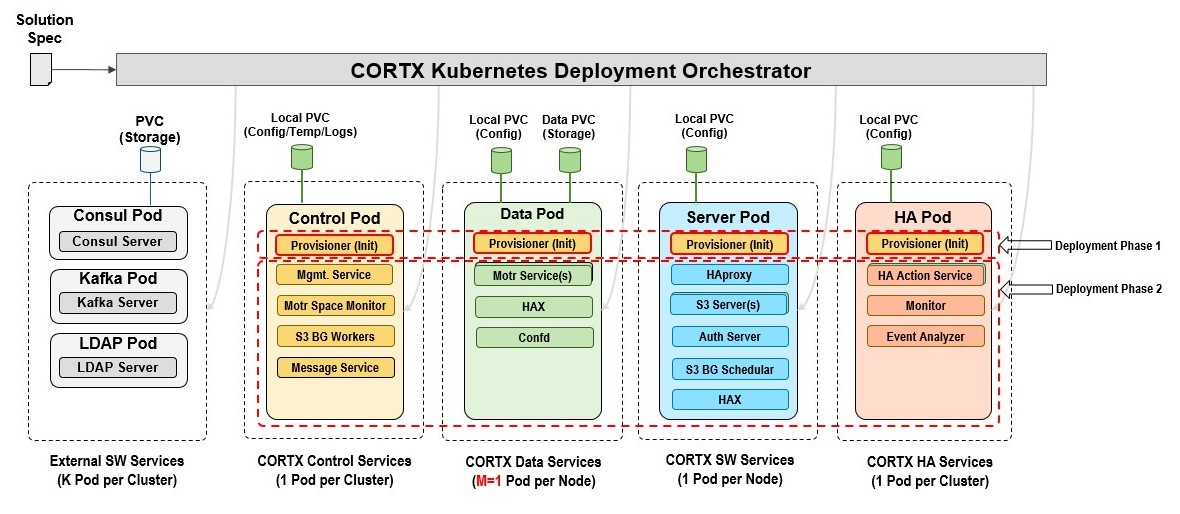
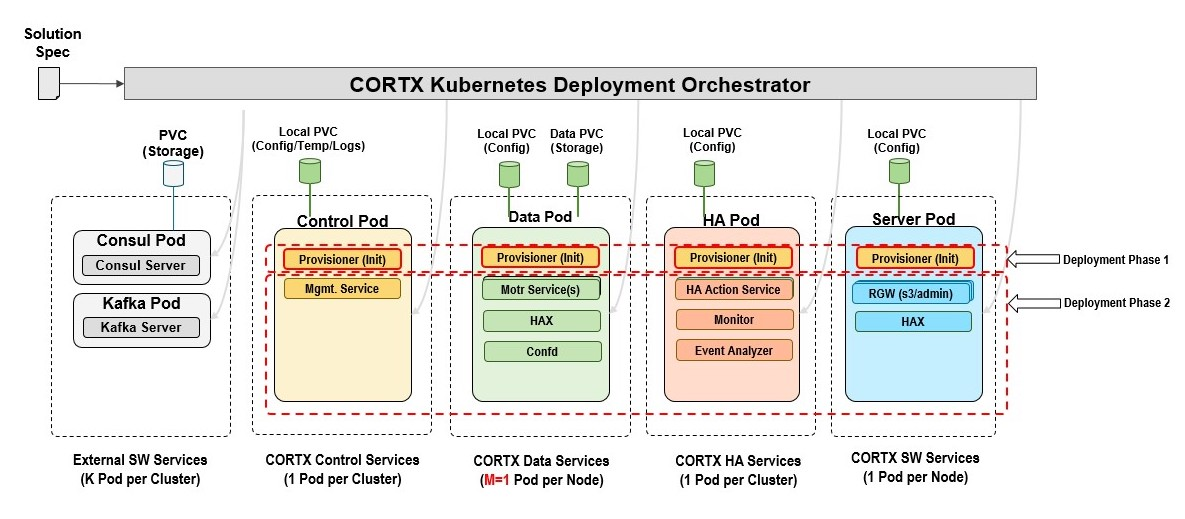
CORTX-29121 - Initial README updates for RGW

diff --git a/README.md b/README.md
@@ -208,7 +208,7 @@ This section contains the CORTX and third-party authentication information used 
 | Name                     | Description                                                                             | Value           |
 | ------------------------ | --------------------------------------------------------------------------------------- | --------------- |
 | `secrets.name`           | Name for the Kubernetes secret CORTX uses to store solution-specific secrets.           | `cortx-secret`            |
-| `secrets.content.openldap_admin_secret`          | Administrator password for the OpenLDAP required service        | `seagate1` |
+| `secrets.content.openldap_admin_secret`          | Administrator password for the OpenLDAP required service (deprecated) | `seagate1` |
 | `secrets.content.kafka_admin_secret`          | Administrator password for the Kafka required service        | `Seagate@123` |
 | `secrets.content.consul_admin_secret`          | Administrator password for the Consul required service        | `Seagate@123` |
 | `secrets.content.common_admin_secret`          | Administrator password for the CORTX common services        | `Seagate@123` |
@@ -222,20 +222,17 @@ This section contains the CORTX and third-party images used to deploy CORTX on K
 
 | Name                     | Description                                                                             | Value           |
 | ------------------------ | --------------------------------------------------------------------------------------- | --------------- |
-| `images.cortxcontrolprov`          | Image name (registry, repository, & tag) for the CORTX Control Provisioner components   | `ghcr.io/seagate/cortx-all:2.0.0-stable-custom-ci` |
-| `images.cortxcontrol`              | Image name (registry, repository, & tag) for the CORTX Control components   | `ghcr.io/seagate/cortx-all:2.0.0-stable-custom-ci` |
-| `images.cortxdataprov`             | Image name (registry, repository, & tag) for the CORTX Data Provisioner components   | `ghcr.io/seagate/cortx-all:2.0.0-stable-custom-ci` |
-| `images.cortxdata`                 | Image name (registry, repository, & tag) for the CORTX Data components   | `ghcr.io/seagate/cortx-all:2.0.0-stable-custom-ci` |
-| `images.cortxserverprov`           | Image name (registry, repository, & tag) for the CORTX Server Provisioner components   | `ghcr.io/seagate/cortx-all:2.0.0-stable-custom-ci` |
-| `images.cortxserver`               | Image name (registry, repository, & tag) for the CORTX Server components   | `ghcr.io/seagate/cortx-all:2.0.0-stable-custom-ci` |
-| `images.cortxha`          | Image name (registry, repository, & tag) for the CORTX HA components   | `ghcr.io/seagate/cortx-all:2.0.0-stable-custom-ci` |
-| `images.cortxclient`          | Image name (registry, repository, & tag) for the CORTX Client components   | `ghcr.io/seagate/cortx-all:2.0.0-stable-custom-ci` |
-| `images.openldap`          | Image name (registry, repository, & tag) for the OpenLDAP required service   | `ghcr.io/seagate/symas-openldap:2.4.58` |
-| `images.consul`          | Image name (registry, repository, & tag) for the Consul required service   | `ghcr.io/seagate/consul:1.10.0` |
-| `images.kafka`          | Image name (registry, repository, & tag) for the Kafka required service   | `ghcr.io/seagate/kafka:3.0.0-debian-10-r7` |
-| `images.zookeeper`          | Image name (registry, repository, & tag) for the Zookeeper required service   | `ghcr.io/seagate/zookeeper:3.7.0-debian-10-r182` |
-| `images.rancher`          | Image name (registry, repository, & tag) for the Rancher Local Path Provisioner container   | `ghcr.io/seagate/local-path-provisioner:v0.0.20` |
-| `images.busybox`          | Image name (registry, repository, & tag) for the utility busybox container   | `ghcr.io/seagate/busybox:latest` |
+| `images.cortxcontrol`    | Image registry, repository, & tag for the CORTX Control components   | `ghcr.io/seagate/cortx-all:2.0.0-{VERSION}` |
+| `images.cortxdata`       | Image registry, repository, & tag for the CORTX Data components      | `ghcr.io/seagate/cortx-all:2.0.0-{VERSION}` |
+| `images.cortxserver`     | Image registry, repository, & tag for the CORTX Server components    | `ghcr.io/seagate/cortx-all:2.0.0-{VERSION}` |
+| `images.cortxha`         | Image registry, repository, & tag for the CORTX HA components        | `ghcr.io/seagate/cortx-all:2.0.0-{VERSION}` |
+| `images.cortxclient`     | Image registry, repository, & tag for the CORTX Client components    | `ghcr.io/seagate/cortx-all:2.0.0-{VERSION}` |
+| `images.openldap`        | Image registry, repository, & tag for the OpenLDAP required service  | `ghcr.io/seagate/symas-openldap:2.4.58` |
+| `images.consul`          | Image registry, repository, & tag for the Consul required service    | `ghcr.io/seagate/consul:1.10.0` |
+| `images.kafka`           | Image registry, repository, & tag for the Kafka required service     | `ghcr.io/seagate/kafka:3.0.0-debian-10-r7` |
+| `images.zookeeper`       | Image registry, repository, & tag for the Zookeeper required service | `ghcr.io/seagate/zookeeper:3.7.0-debian-10-r182` |
+| `images.rancher`         | Image registry, repository, & tag for the Rancher Local Path Provisioner container   | `ghcr.io/seagate/local-path-provisioner:v0.0.20` |
+| `images.busybox`         | Image registry, repository, & tag for the utility busybox container   | `ghcr.io/seagate/busybox:latest` |
 
 ### Common parameters
 
@@ -243,7 +240,21 @@ This section contains common paramaters that applies to all CORTX Data nodes.
 
 | Name                     | Description                                                                             | Value           |
 | ------------------------ | --------------------------------------------------------------------------------------- | --------------- |
-| `_TODO_`       | TBD | `TBD` |
+| `_TODO_`                          | TODO       | `TODO` |
+| `common.storage_provisioner_path` | TODO       | `/mnt/fs-local-volume` |
+| `common.container_path.local`     | TODO      | `/etc/cortx` |
+| `common.container_path.shared`    | TODO      | `/share` |
+| `common.container_path.log`       | TOD       | `/etc/cortx/log` |
+| `common.s3.default_iam_users.auth_admin`      | TBD | `sgiamadmin` |
+| `common.s3.default_iam_users.auth_user`       | TBD | `user_name` |
+| `common.s3.num_inst`              | TODO       | `2` |
+| `common.s3.start_port_num`        | TODO      | `28051` |
+| `common.s3.max_start_timeout`     | TODO      | `240` |
+| `common.motr.num_client_inst`     | TODO      | `0` |
+| `common.motr.start_port_num`      | TODO       | `29000` |
+| `common.hax.procotol` | Protocol that is used to communicate with HAX components running across Server and Data Pods. | `https` | 
+| `common.hax.service_name` | Service name that is used to communicate with HAX components running across Server and Data Pods. | `cortx-hax-svc` |
+| `common.hax.port_num` | Port number that is used to communicate with HAX components running across Server and Data Pods. | `22003` |
 
 ### Storage parameters
 
